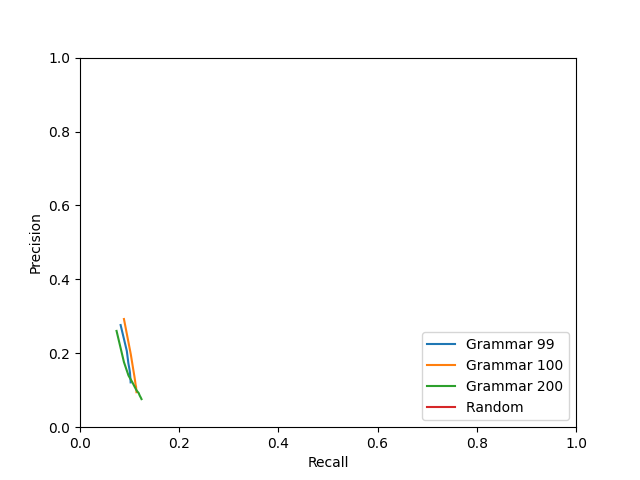
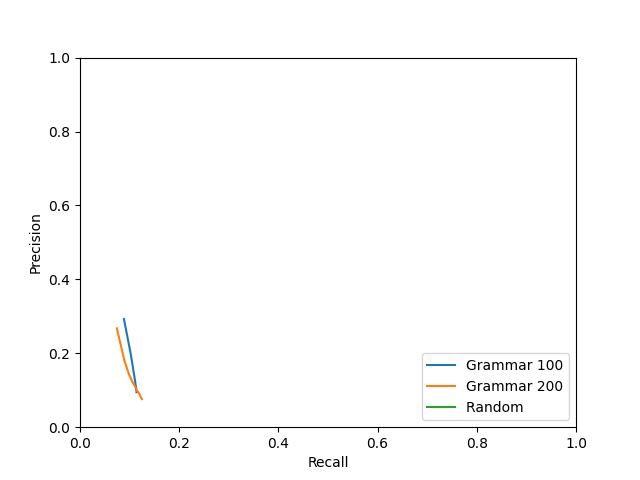
Add new eval for gr200 with rule weights summing up to 1

diff --git a/dev/reports/eval.md b/dev/reports/eval.md
@@ -1,28 +1,12 @@
 # Evaluation
-## Grammar 99
-
-|  variation | predicted extractions | gold extractions | matches | exact matches | prec | rec | F1 |
-|-------------- | -------------- | -------------- | -------------- | -------------- | -------------- | -------------- | -------------- | 
-| k1 | 2249 | 5269 | 861 | 61 | **0.2764** | 0.0819 | 0.1264 | 
-| k2 | 3444 | 5269 | 975 | 78 | 0.2062 | 0.0944 | **0.1295** | 
-| k3 | 4223 | 5269 | 1002 | 84 | 0.1733 | 0.0975 | 0.1248 | 
-| k4 | 4754 | 5269 | 1022 | 87 | 0.1576 | 0.0996 | 0.1220 | 
-| k5 | 5142 | 5269 | 1035 | 89 | 0.1478 | 0.1007 | 0.1198 | 
-| k6 | 5504 | 5269 | 1040 | 92 | 0.1388 | 0.1012 | 0.1171 | 
-| k7 | 5762 | 5269 | 1043 | 96 | 0.1331 | 0.1016 | 0.1152 | 
-| k8 | 5987 | 5269 | 1047 | 100 | 0.1285 | 0.1018 | 0.1136 | 
-| k9 | 6184 | 5269 | 1050 | 102 | 0.1247 | 0.1020 | 0.1122 | 
-| k10 | 6360 | 5269 | 1050 | 103 | 0.1213 | **0.1021** | 0.1109 | 
-
-
 ## Grammar 100
 
-|  variation | predicted extractions | gold extractions | matches | exact matches | prec | rec | F1 |
+|  k | predicted extractions | gold extractions | matches | exact matches | prec | rec | F1 |
 |-------------- | -------------- | -------------- | -------------- | -------------- | -------------- | -------------- | -------------- | 
 | k1 | 2249 | 5269 | 919 | 39 | **0.2927** | 0.0886 | **0.1360** | 
-| k2 | 3823 | 5269 | 1042 | 55 | 0.1973 | 0.1024 | 0.1349 | 
-| k3 | 5022 | 5269 | 1084 | 65 | 0.1576 | 0.1072 | 0.1276 | 
-| k4 | 5899 | 5269 | 1109 | 75 | 0.1375 | 0.1097 | 0.1220 | 
+| k2 | 3823 | 5269 | 1042 | 55 | 0.1974 | 0.1024 | 0.1349 | 
+| k3 | 5022 | 5269 | 1084 | 65 | 0.1575 | 0.1072 | 0.1275 | 
+| k4 | 5899 | 5269 | 1109 | 75 | 0.1374 | 0.1096 | 0.1219 | 
 | k5 | 6588 | 5269 | 1121 | 85 | 0.1250 | 0.1111 | 0.1176 | 
 | k6 | 7229 | 5269 | 1128 | 90 | 0.1147 | 0.1121 | 0.1134 | 
 | k7 | 7721 | 5269 | 1141 | 96 | 0.1090 | 0.1131 | 0.1110 | 
@@ -33,25 +17,25 @@
 
 ## Grammar 200
 
-|  variation | predicted extractions | gold extractions | matches | exact matches | prec | rec | F1 |
+|  k | predicted extractions | gold extractions | matches | exact matches | prec | rec | F1 |
 |-------------- | -------------- | -------------- | -------------- | -------------- | -------------- | -------------- | -------------- | 
-| k1 | 2265 | 5269 | 816 | 28 | **0.2605** | 0.0737 | 0.1148 | 
-| k2 | 4086 | 5269 | 987 | 38 | 0.1761 | 0.0886 | **0.1179** | 
-| k3 | 5766 | 5269 | 1091 | 50 | 0.1397 | 0.0978 | 0.1150 | 
-| k4 | 7244 | 5269 | 1200 | 58 | 0.1222 | 0.1053 | 0.1131 | 
-| k5 | 8590 | 5269 | 1270 | 65 | 0.1095 | 0.1101 | 0.1098 | 
-| k6 | 9899 | 5269 | 1321 | 73 | 0.0992 | 0.1142 | 0.1062 | 
-| k7 | 11110 | 5269 | 1375 | 82 | 0.0922 | 0.1184 | 0.1037 | 
-| k8 | 12273 | 5269 | 1402 | 88 | 0.0855 | 0.1204 | 0.1000 | 
-| k9 | 13403 | 5269 | 1434 | 96 | 0.0803 | 0.1225 | 0.0970 | 
-| k10 | 14459 | 5269 | 1460 | 102 | 0.0760 | **0.1240** | 0.0942 | 
+| k1 | 2265 | 5269 | 843 | 27 | **0.2675** | 0.0743 | 0.1163 | 
+| k2 | 4104 | 5269 | 1022 | 38 | 0.1800 | 0.0895 | **0.1196** | 
+| k3 | 5790 | 5269 | 1128 | 50 | 0.1430 | 0.0988 | 0.1169 | 
+| k4 | 7274 | 5269 | 1218 | 60 | 0.1232 | 0.1055 | 0.1137 | 
+| k5 | 8625 | 5269 | 1284 | 70 | 0.1098 | 0.1112 | 0.1105 | 
+| k6 | 9941 | 5269 | 1330 | 76 | 0.0995 | 0.1147 | 0.1065 | 
+| k7 | 11169 | 5269 | 1388 | 83 | 0.0926 | 0.1186 | 0.1040 | 
+| k8 | 12353 | 5269 | 1423 | 90 | 0.0861 | 0.1210 | 0.1006 | 
+| k9 | 13501 | 5269 | 1450 | 98 | 0.0804 | 0.1228 | 0.0972 | 
+| k10 | 14575 | 5269 | 1478 | 99 | 0.0761 | **0.1249** | 0.0946 | 
 
 
 ## Random 
 
-|  variation | predicted extractions | gold extractions | matches | exact matches | prec | rec | F1 |
+|  k | predicted extractions | gold extractions | matches | exact matches | prec | rec | F1 |
 |-------------- | -------------- | -------------- | -------------- | -------------- | -------------- | -------------- | -------------- | 
-| all | 5332 | 5269 | 1433 | 41 | **0.1724** | **0.1389** | **0.1538** | 
+| random | 5332 | 5269 | 1433 | 41 | **0.1724** | **0.1389** | **0.1538** | 
 
 
 ## P-R curve
